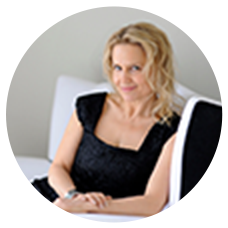
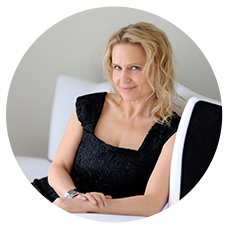
Update BH homepage animation and link.

diff --git a/bathroom-happiness/css/style.css b/bathroom-happiness/css/style.css
@@ -1548,7 +1548,7 @@ body.homepage .section-intro .panel-hero-happiness a:before {
 }
 /* line 233, ../sass/pages/_homepage.scss */
 body.homepage .section-intro .panel-hero-happiness a:hover:before {
-  opacity: 0.7;
+  opacity: 0.5;
 }
 /* line 236, ../sass/pages/_homepage.scss */
 body.homepage .section-intro .panel-hero-happiness a:hover .content-wrap {
@@ -1841,7 +1841,7 @@ body.homepage .section-intro .panel-luxe-on-a-budget .text-overlay-image {
 }
 /* line 438, ../sass/pages/_homepage.scss */
 body.homepage .section-intro .panel-luxe-on-a-budget .text-overlay-image img {
-  width: 116px;
+  width: 115px;
   margin: 0 auto;
 }
 /* line 443, ../sass/pages/_homepage.scss */

diff --git a/bathroom-happiness/sass/pages/_homepage.scss b/bathroom-happiness/sass/pages/_homepage.scss
@@ -231,7 +231,7 @@ body.homepage {
         }
         &:hover{
           &:before{
-            opacity: 0.7;
+            opacity: 0.5;
           }
           .content-wrap{
             padding: 74px 40px;
@@ -436,7 +436,7 @@ body.homepage {
       .text-overlay-image{
         margin-bottom: 15px;
         img{
-          width: 116px;
+          width: 115px;
           margin: 0 auto;
         }
       }

diff --git a/bathroom-happiness/index.php b/bathroom-happiness/index.php
@@ -29,7 +29,7 @@
                   <div class="image">
                     <img src="images/homepage/the-happiness-project.jpg" alt="The Happiness project">
                   </div>
-                  <a href="inspiration.php">
+                  <a href="http://reece-spring.trout.com.au/the-happiness-project">
                     <div class="content-wrap">
                       <div class="content-inner">
                       <span class="border-top"></span>
